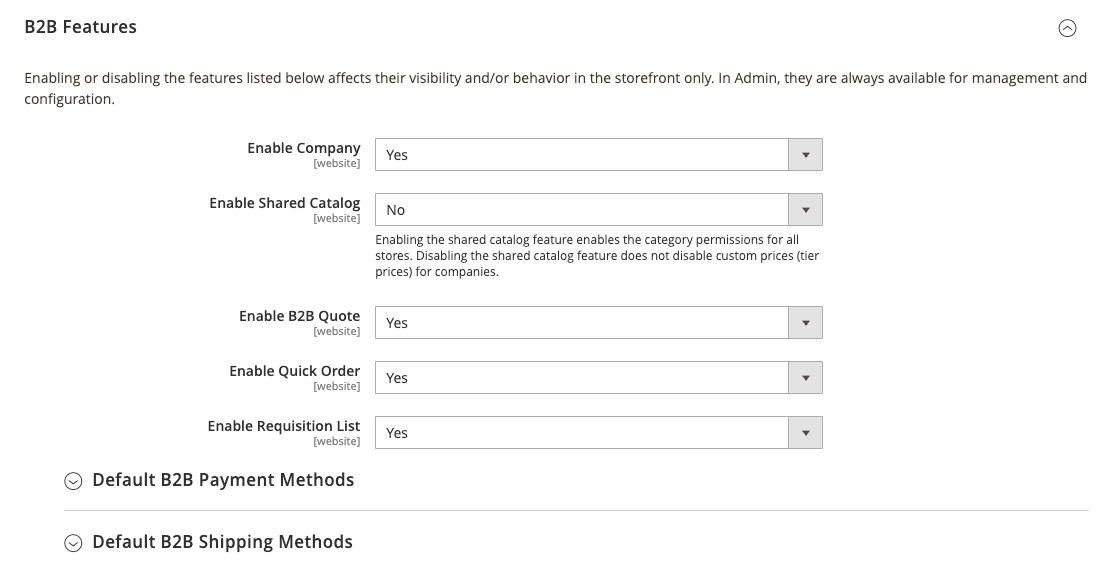
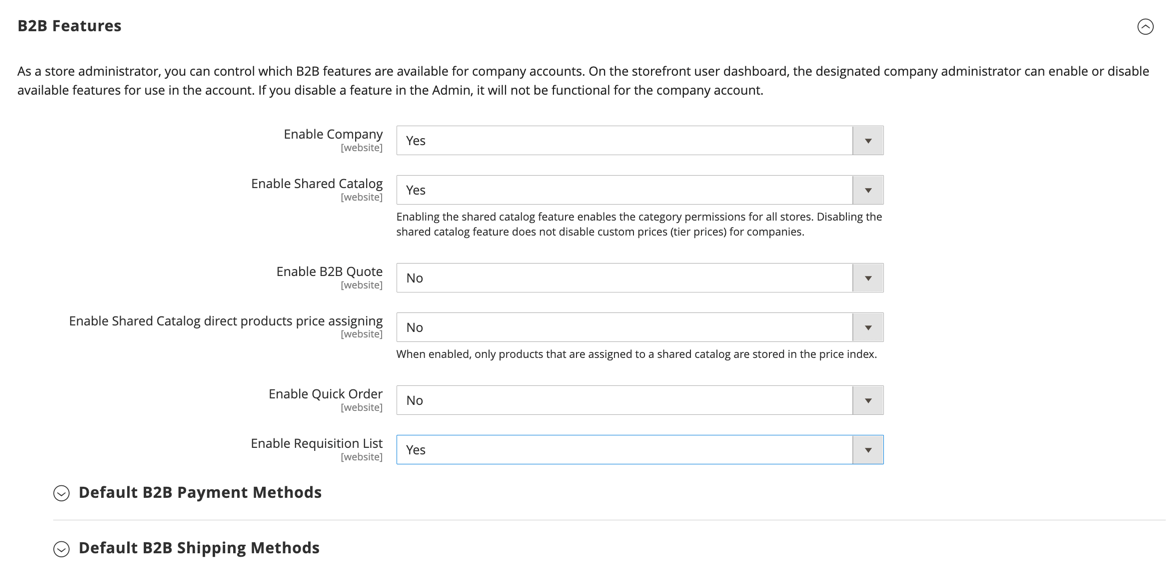
B2B option for 2.4.5

diff --git a/help/b2b/enable-basic-features.md b/help/b2b/enable-basic-features.md
@@ -39,6 +39,8 @@ By default, all B2B features are initially disabled. However, they are always av
 
    Enabling shared catalogs also enables category permissions for all stores.
 
+   When the Shared Catalog feature is enabled, the **Enable Shared Catalog direct products price assigning** option is available. When this option is set to `Yes`, only products that are assigned to a shared catalog are stored in the price index. This is recommended if you have a large number of shared catalogs to manage custom pricing for different companies.
+
 1. To give company buyers the ability to negotiate prices, set **[!UICONTROL Enable B2B Quote]** to `Yes`.
 
 1. To establish the default payment methods for B2B orders, set **[!UICONTROL Applicable Payment Methods]** to one of the following:
